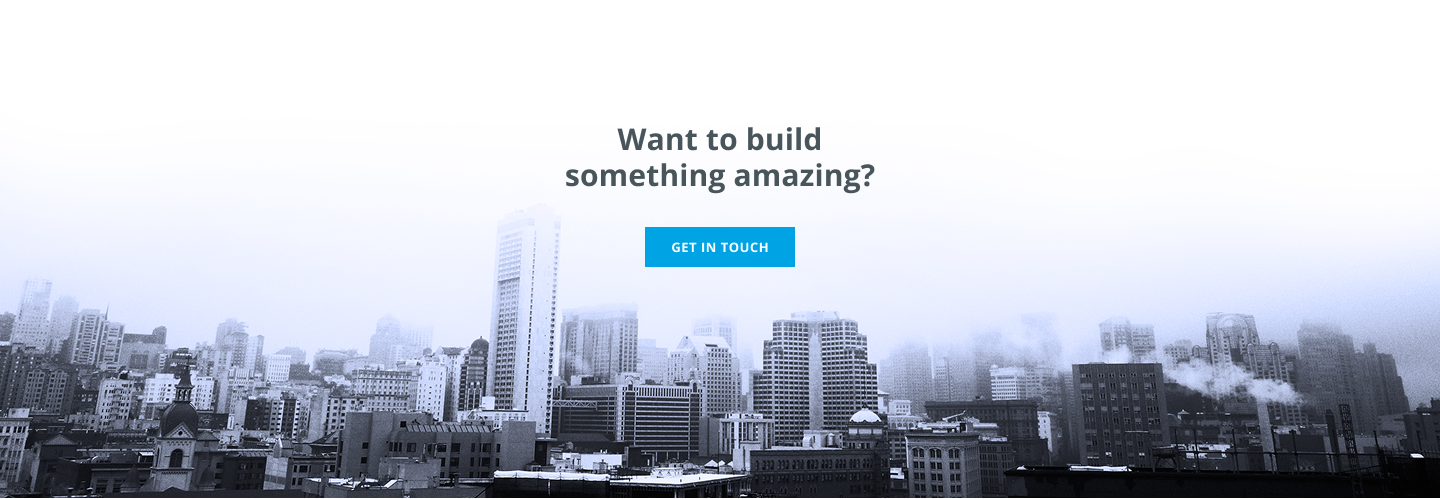
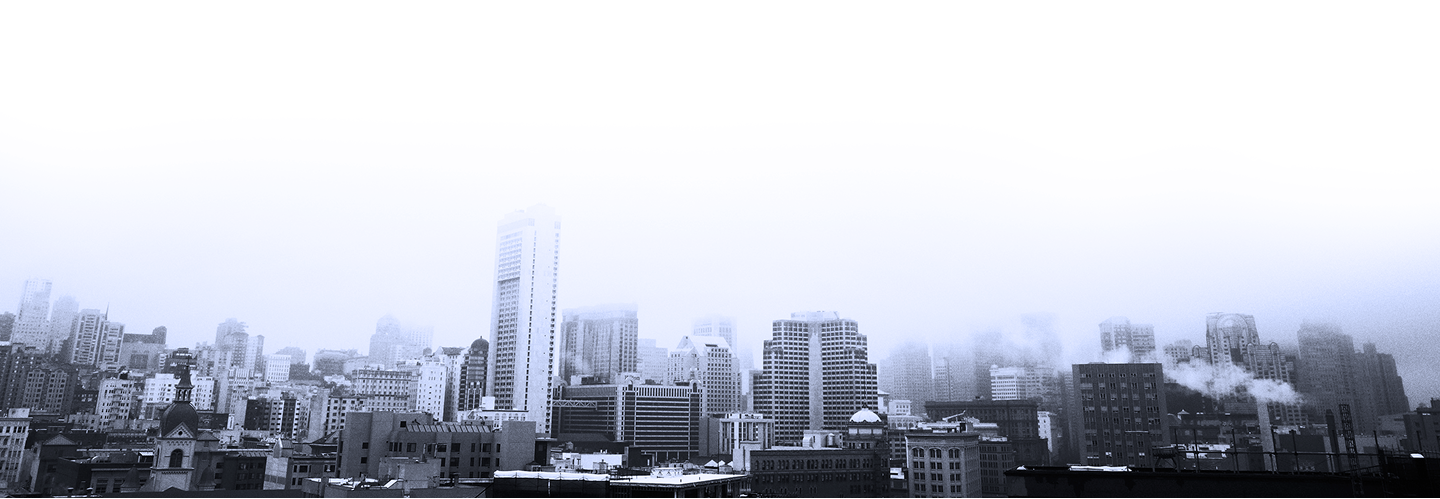
refactor: delete .get-in-touch__inner div

Changed region(s): [[0.375, 0.3307, 0.625, 0.3908], [0.4375, 0.4509, 0.5625, 0.5411], [0.4062, 0.2405, 0.5938, 0.3006]]

diff --git a/styles/main.css b/styles/main.css
@@ -171,8 +171,7 @@ a:hover {
 
 .services {
     margin-top: 92px;
-}
-.services_inner {
+    margin-bottom: 110px;
 }
 .services_content {
     display: flex;
@@ -228,11 +227,29 @@ a:hover {
     width: 250px;
     padding: 25px 0 13px;
 }
+
 .get-in-touch {
+    background-image: url("/assets/get-in-touch.png");
+    background-size: cover;
+    background-position: center;
+    width: 100%;
+    height: 499px;
+    display: flex;
+    flex-direction: column;
+    justify-content: center;
+    margin: 0 auto;
 }
 .get-in-touch__inner {
 }
 .get-in-touch__text {
+    color: var(--gray, #48555B);
+    text-align: center;
+    font-size: 30px;
+    font-weight: 700;
+    line-height: 36px; /* 120% */
+    letter-spacing: 0.15px;
+    margin: 0 auto;
+    width: 350px;
 }
 .get-in-touch__button {
 }

diff --git a/index.html b/index.html
@@ -103,7 +103,7 @@
             </div>    
         </section>
         <section class="get-in-touch">
-            <div class="get-in-touch__inner">
+            <div class="container">
                 <p class="get-in-touch__text">Want to build something amazing?</p>
                 <button class="get-in-touch__button">GET IN TOUCH</button>
             </div>
